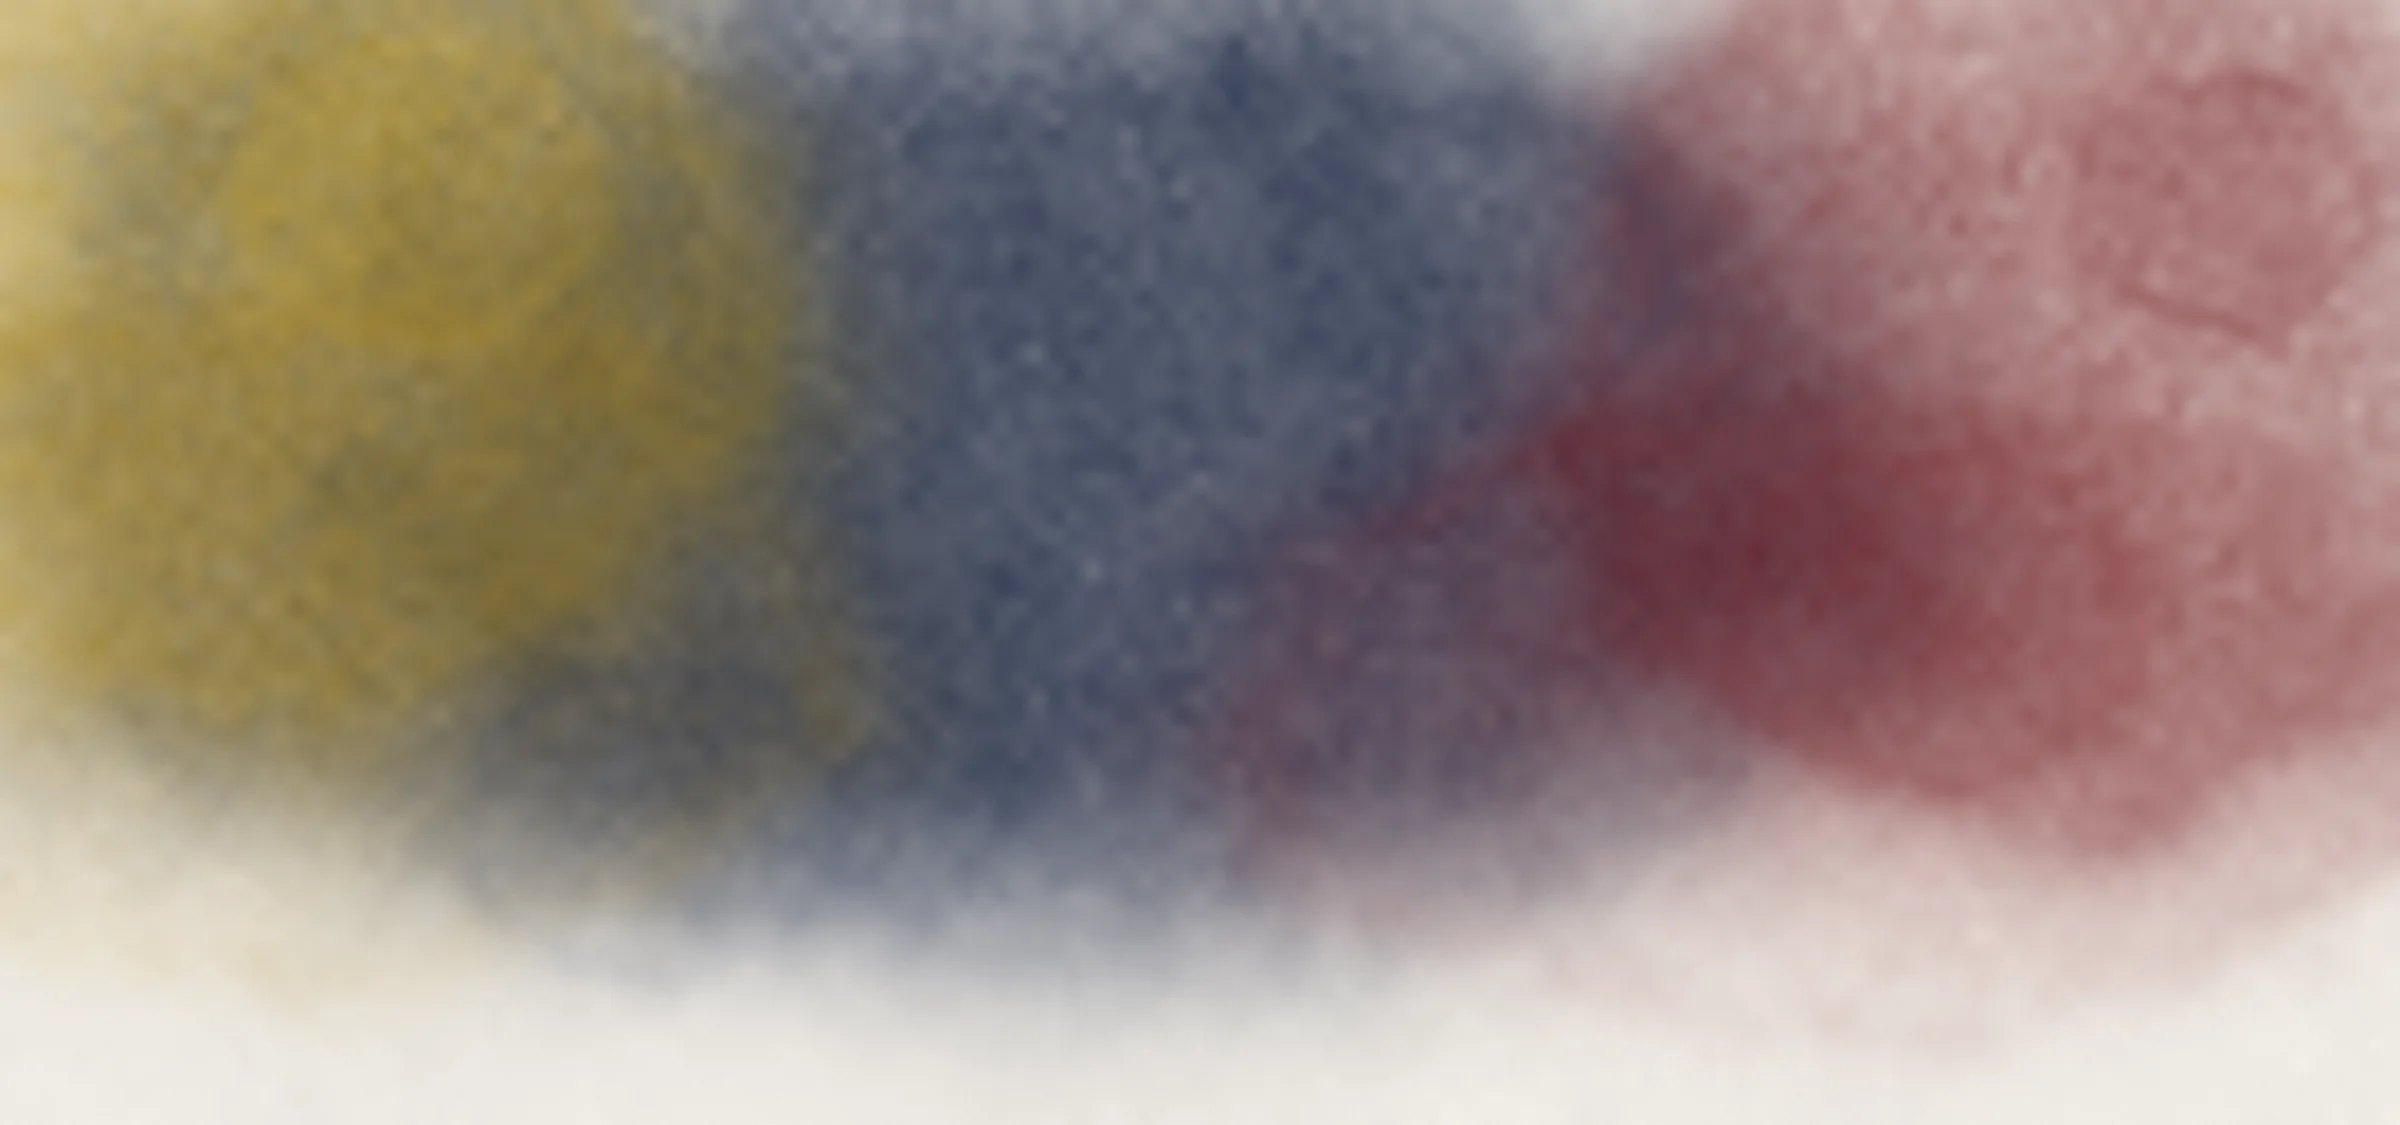
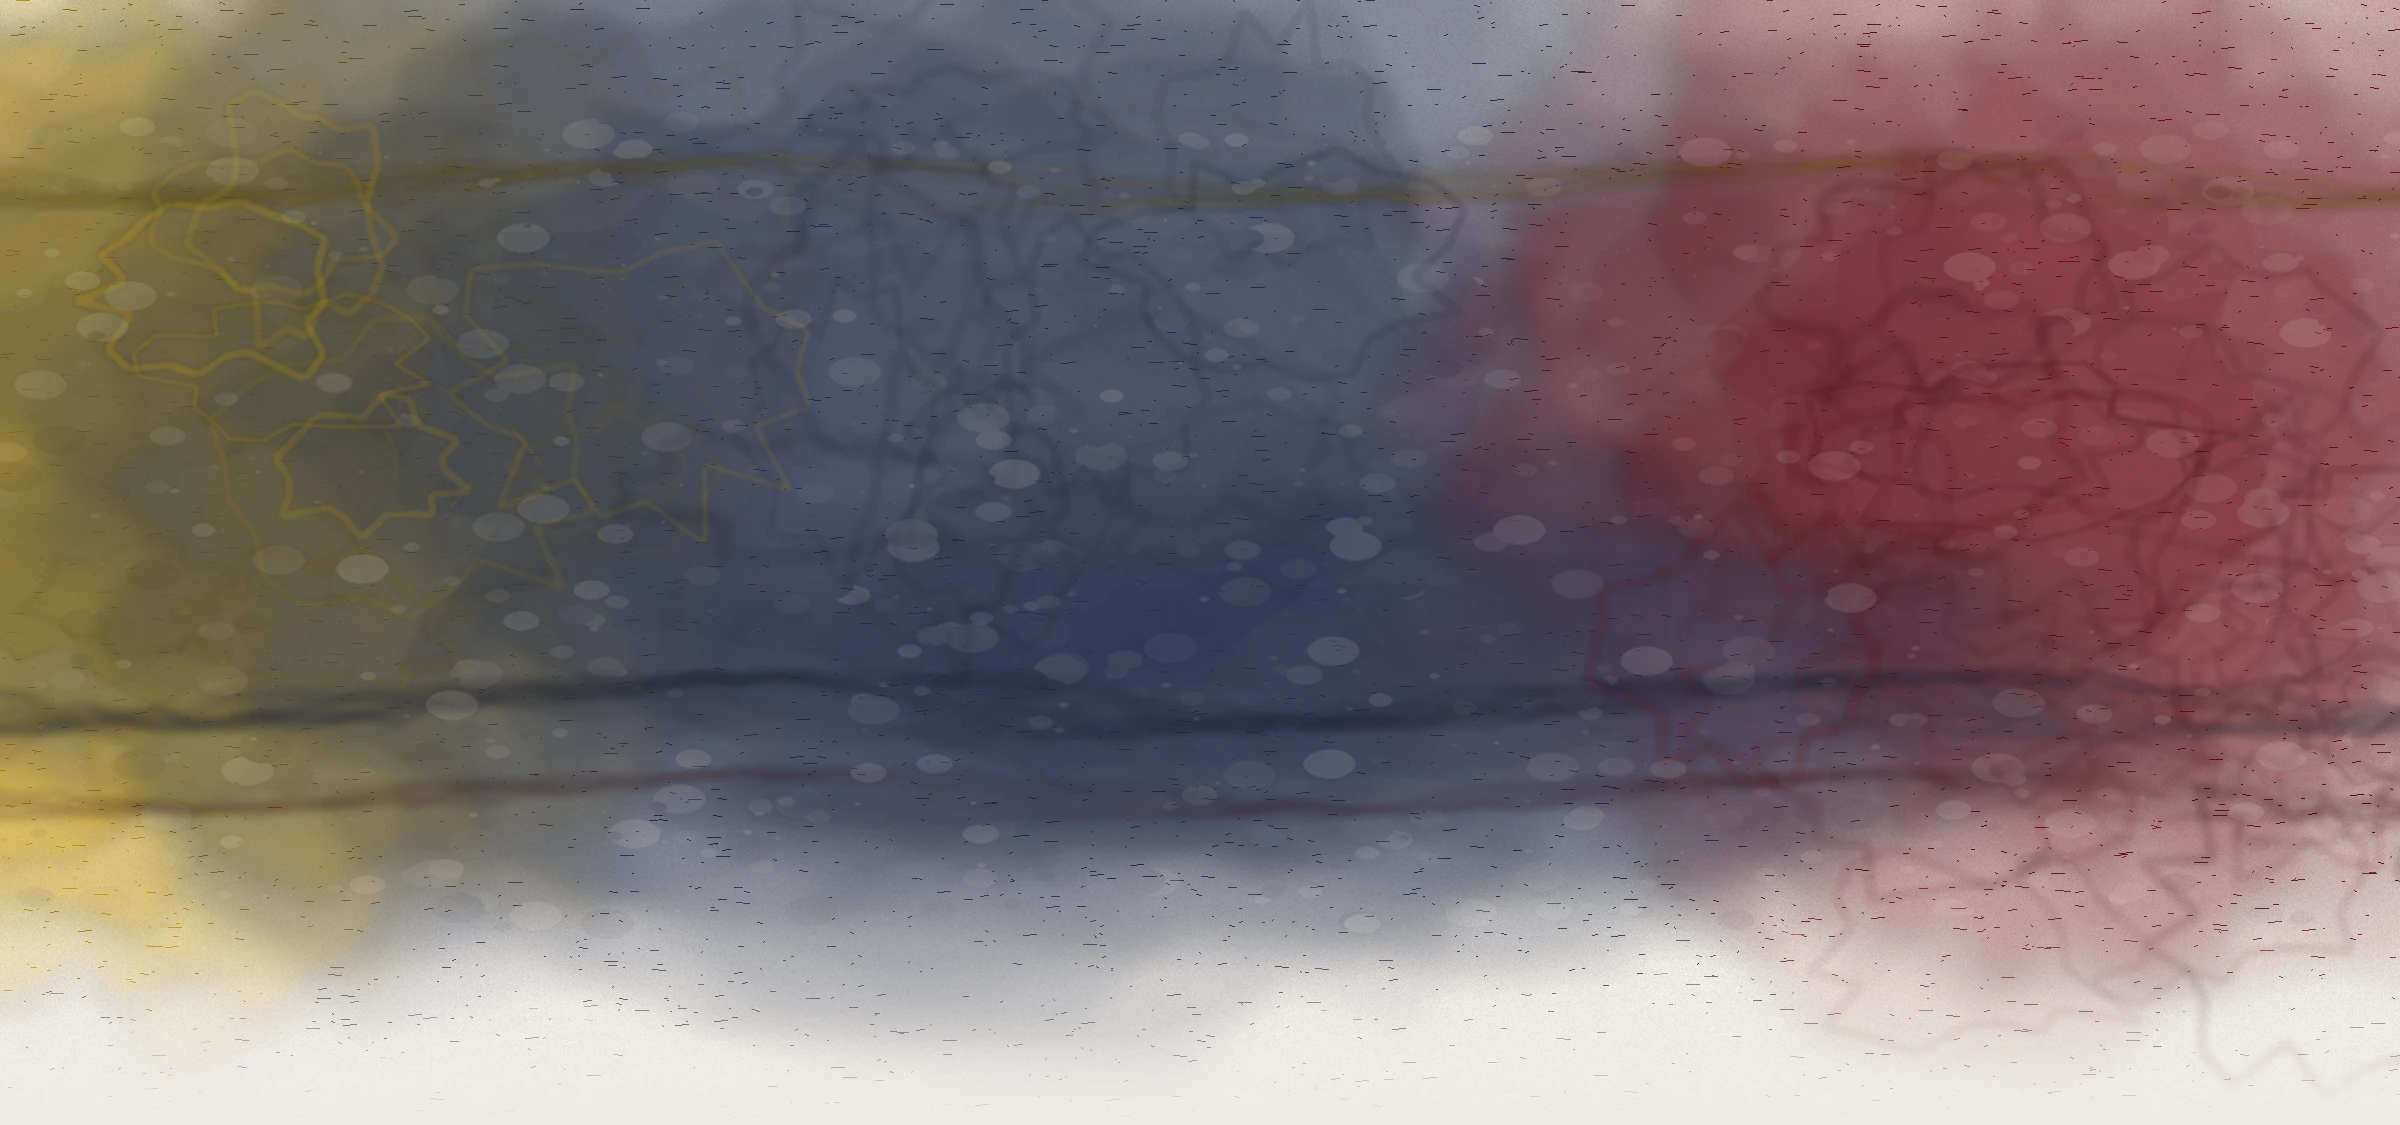
fix(home hero): light watercolor overlay so paper grain survives
R1 of t_eb103610 (REVISION 1/3). Integrate the stronger 2400x1125,
249.6 KB watercolor asset shipped by parent t_e72e21c7 and reduce the
single .cp-hero__overlay so cold-press grain, pigment edges, and bloom
tide marks stay visible at page scale.

Hero.astro
  - cp-hero__overlay desktop: 0.45 -> 0.20 navy (top), 0.30 -> 0.10
    (35%), 0 -> 0 (60%), var(--cp-color-ivory) 100%. The bottom ivory
    reveal is preserved exactly.
  - mobile @media: 0.58 -> 0.30 / 0.40 -> 0.18 / 0.05 unchanged.
  - title text-shadow tightened (0 1px 2px 0.65 + 0 2px 18px 0.45)
    so white headline stays readable against the textured painting
    even with the lighter overlay.
  - Updated the comment block above the overlay to document the R1
    rationale and link it to the kanban card.

Tests (home-hero-watercolor.test.mjs)
  - Added 'Hero <img> is eager and high-priority for above-the-fold
    paint' to lock loading=eager, fetchpriority=high, decoding=async.
  - Added 'Watercolor hero asset is the real 2400x1125 WebP above
    200 KB' to fail CI on a reversion to the 36 KB blurred wash.
  - Added 'Hero overlay does not reintroduce radial-gradient artwork'
    to reject any radial-gradient anywhere in real CSS and to
    require the single linear-gradient overlay to remain.

scripts/generate_watercolor_hero.py
  - Reproducible renderer from the parent task; included so future
    regenerations stay byte-identical (verified: sha256 unchanged
    across regenerations).

Verification
[…]

diff --git a/scripts/generate_watercolor_hero.py b/scripts/generate_watercolor_hero.py
@@ -1,0 +1,145 @@
+"""Render the IIFR home hero as an original, high-texture watercolour raster.
+
+The artwork keeps a dark navy text-safe field through the middle-left, with ochre
+and maroon pigment masses at the edges. It is deliberately built at production
+resolution so paper grain and dry-brush detail survive a normal hero crop.
+"""
+
+from __future__ import annotations
+
+import math
+import random
+from pathlib import Path
+
+from PIL import Image, ImageDraw, ImageFilter, ImageOps
+
+WIDTH, HEIGHT = 2400, 1125
+OUTPUT = Path(__file__).parents[1] / "public/assets/images/contemporary/home-watercolor-hero.webp"
+RNG = random.Random(20260807)
+
+IVORY = (239, 235, 229)
+OCHRE = (199, 153, 6)
+NAVY = (36, 47, 76)
+MAROON = (108, 19, 27)
+
+
+def irregular_polygon(cx: float, cy: float, rx: float, ry: float, points: int, jitter: float) -> list[tuple[float, float]]:
+    values = []
+    phase = RNG.random() * math.tau
+    for index in range(points):
+        angle = phase + math.tau * index / points
+        radius = 1 + RNG.uniform(-jitter, jitter)
+        values.append((cx + math.cos(angle) * rx * radius, cy + math.sin(angle) * ry * radius))
+    return values
+
+
+def pigment_bloom(canvas: Image.Image, colour: tuple[int, int, int], cx: float, cy: float, rx: float, ry: float, layers: int, alpha: int) -> None:
+    """Layer irregular transparent pools to mimic pigment blooms and tide marks."""
+    for layer_index in range(layers):
+        scale = 1 - (layer_index / layers) * 0.72
+        layer = Image.new("RGBA", (WIDTH, HEIGHT))
+        draw = ImageDraw.Draw(layer)
+        for _ in range(3):
+            x = cx + RNG.uniform(-rx * 0.11, rx * 0.11)
+            y = cy + RNG.uniform(-ry * 0.12, ry * 0.12)
+            polygon = irregular_polygon(x, y, rx * scale, ry * scale, 32, 0.18)
+            draw.polygon(polygon, fill=(*colour, max(5, int(alpha / layers * RNG.uniform(0.7, 1.5)))))
+        # Earlier pools stay feathered while later passes form visible pigments.
+        layer = layer.filter(ImageFilter.GaussianBlur(max(2, int(18 * (1 - layer_index / layers)))))
+        canvas.alpha_composite(layer)
+
+
+def dry_brush(canvas: Image.Image, colour: tuple[int, int, int], y: float, amplitude: float, thickness: float, opacity: int) -> None:
+    """Paint an imperfect horizontal brush stroke with dry gaps and bristle striations."""
+    for bristle in range(8):
+        layer = Image.new("RGBA", (WIDTH, HEIGHT))
+        draw = ImageDraw.Draw(layer)
+        offset = (bristle - 13) * thickness / 25
+        points = []
+        for x in range(-80, WIDTH + 120, 34):
+            wave = math.sin(x / 180 + bristle * 0.39) * amplitude
+            wobble = RNG.uniform(-amplitude * 0.28, amplitude * 0.28)
+            points.append((x, y + offset + wave + wobble))
+        draw.line(points, fill=(*colour, max(2, opacity - bristle * 7)), width=max(2, int(thickness / 8)))
+        canvas.alpha_composite(layer.filter(ImageFilter.GaussianBlur(4)))
+
+
+def paper_grain() -> Image.Image:
+    """Cold-press paper with fibres, uneven absorption, and a warm ivory base."""
+    pixels = []
+    for _ in range(WIDTH * HEIGHT):
+        noise = RNG.gauss(0, 7)
+        pixels.append(tuple(max(0, min(255, int(channel + noise))) for channel in IVORY) + (255,))
+    paper = Image.new("RGBA", (WIDTH, HEIGHT))
+    paper.putdata(pixels)
+    draw = ImageDraw.Draw(paper, "RGBA")
+    for _ in range(4000):
+        x = RNG.randrange(WIDTH)
+        y = RNG.randrange(HEIGHT)
+        length = RNG.choice((1, 1, 2, 3, 5, 8, 13))
+        colour = (111, 97, 80, RNG.randrange(3, 11)) if RNG.random() < 0.48 else (255, 255, 255, RNG.randrange(3, 13))
+        draw.line((x, y, x + length, y + RNG.choice((-1, 0, 0, 1))), fill=colour, width=1)
+    return paper
+
+
+def apply_pigment_granulation(canvas: Image.Image) -> None:
+    """Apply clusters of transparent bloom edges and lifted pigment islands."""
+    marks = Image.new("RGBA", (WIDTH, HEIGHT))
+    draw = ImageDraw.Draw(marks, "RGBA")
+    for _ in range(1200):
+        x = RNG.randrange(WIDTH)
+        y = RNG.randrange(120, 930)
+        radius = RNG.choice((2, 3, 5, 8, 12, 18, 26))
+        colour = (255, 248, 233, RNG.randrange(4, 28)) if RNG.random() < 0.62 else (33, 24, 36, RNG.randrange(3, 18))
+        draw.ellipse((x - radius, y - radius * 0.55, x + radius, y + radius * 0.55), fill=colour)
+    canvas.alpha_composite(marks.filter(ImageFilter.GaussianBlur(0.7)))
+
+
+def main() -> None:
+    canvas = paper_grain()
+
+    # Multiple overlapping washes create recognisable IIFR colours at page scale.
+    pigment_bloom(canvas, OCHRE, 180, 445, 560, 530, layers=10, alpha=320)
+    pigment_bloom(canvas, NAVY, 900, 420, 1030, 605, layers=14, alpha=360)
+    pigment_bloom(canvas, MAROON, 2060, 420, 620, 555, layers=12, alpha=350)
+    pigment_bloom(canvas, NAVY, 1350, 690, 770, 230, layers=6, alpha=210)
+
+    # Harder tide lines and brushwork retain a handmade quality after browser resizing.
+    dry_brush(canvas, OCHRE, 205, 20, 54, 68)
+    dry_brush(canvas, NAVY, 730, 24, 64, 72)
+    dry_brush(canvas, MAROON, 815, 18, 48, 55)
+
+    # Add localised wet-on-wet pools and lifted paper areas.
+    for colour, centre in ((OCHRE, (380, 410)), (NAVY, (1060, 330)), (MAROON, (1980, 470)), (MAROON, (2180, 740))):
+        for _ in range(16):
+            layer = Image.new("RGBA", (WIDTH, HEIGHT))
+            draw = ImageDraw.Draw(layer)
+            cx = centre[0] + RNG.uniform(-260, 260)
+            cy = centre[1] + RNG.uniform(-220, 220)
+            polygon = irregular_polygon(cx, cy, RNG.uniform(70, 200), RNG.uniform(45, 150), 24, 0.28)
+            draw.line(polygon + [polygon[0]], fill=(*colour, RNG.randrange(24, 63)), width=RNG.randrange(3, 11))
+            canvas.alpha_composite(layer.filter(ImageFilter.GaussianBlur(RNG.uniform(1.2, 4.5))))
+
+    apply_pigment_granulation(canvas)
+
+    # The lower paper reveal gives the hero an organic landing into the ivory page.
+    fade = Image.new("L", (WIDTH, HEIGHT))
+    fade_pixels = []
+    for y in range(HEIGHT):
+        start = int(HEIGHT * 0.72)
+        ratio = max(0, min(1, (y - start) / (HEIGHT - start)))
+        fade_pixels.extend([int(255 * ratio * ratio)] * WIDTH)
+    fade.putdata(fade_pixels)
+    ivory = Image.new("RGBA", (WIDTH, HEIGHT), (*IVORY, 255))
+    canvas = Image.composite(ivory, canvas, fade)
+
+    # One final low-opacity fibre pass keeps the ivory reveal tangible.
+
+    # Preserve the intended texture while producing a production-friendly asset.
+    OUTPUT.parent.mkdir(parents=True, exist_ok=True)
+    canvas.convert("RGB").save(OUTPUT, "WEBP", quality=91, method=6)
+    print(OUTPUT)
+
+
+if __name__ == "__main__":
+    main()
